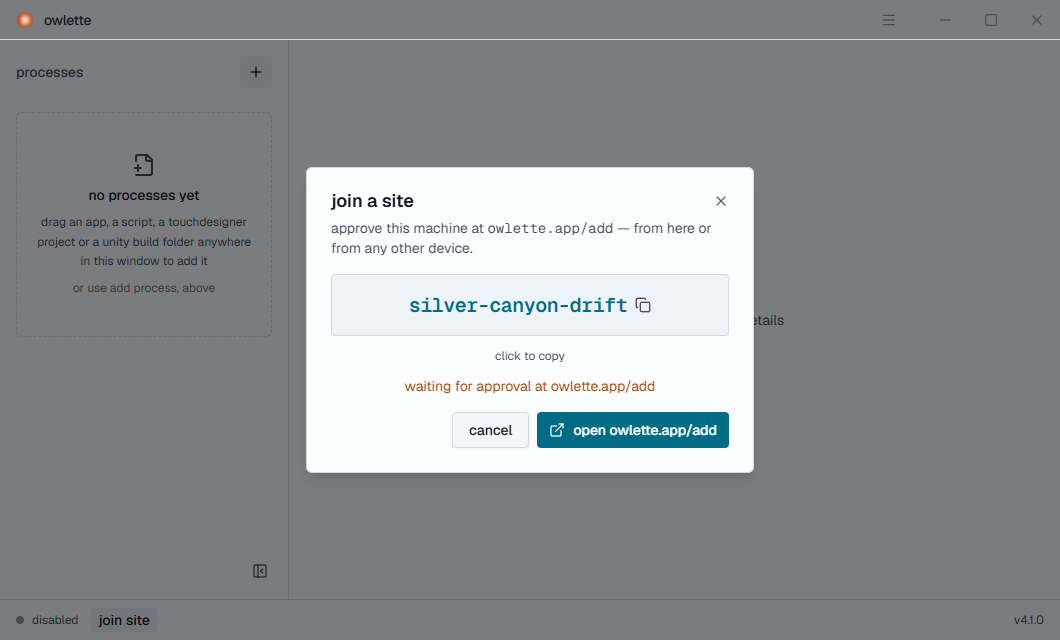
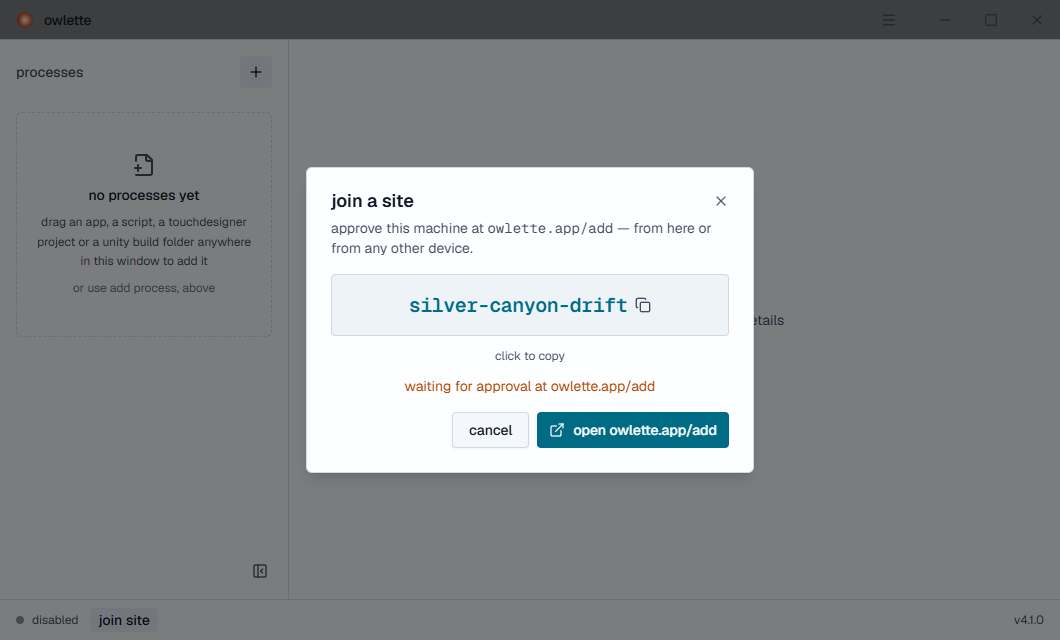
fix: a desktop dialog dims the titlebar with the rest of the window

Changed region(s): [[0.0, 0.0, 1.0, 0.0625]]

diff --git a/desktop/src/globals.css b/desktop/src/globals.css
@@ -978,3 +978,30 @@ input[type="week"] {
     transition: none;
   }
 }
+
+/* a modal dims the whole window. the titlebar sits above dialog overlays so the
+   window stays draggable (App.tsx), so it carries the same scrim over itself,
+   its bottom hairline included, fading with the overlay. pointer-events: none
+   keeps the drag region live under it. */
+body:has([data-slot="dialog-overlay"]) [data-titlebar]::after {
+  content: "";
+  position: absolute;
+  inset: 0 0 -1px;
+  background: rgb(0 0 0 / 0.5);
+  pointer-events: none;
+  animation: titlebar-dim-in 150ms ease-out;
+}
+body:has([data-slot="dialog-overlay"][data-state="closed"]) [data-titlebar]::after {
+  animation: titlebar-dim-out 150ms ease-in forwards;
+}
+@keyframes titlebar-dim-in {
+  from { opacity: 0; }
+}
+@keyframes titlebar-dim-out {
+  to { opacity: 0; }
+}
+@media (prefers-reduced-motion: reduce) {
+  body:has([data-slot="dialog-overlay"]) [data-titlebar]::after {
+    animation: none;
+  }
+}
